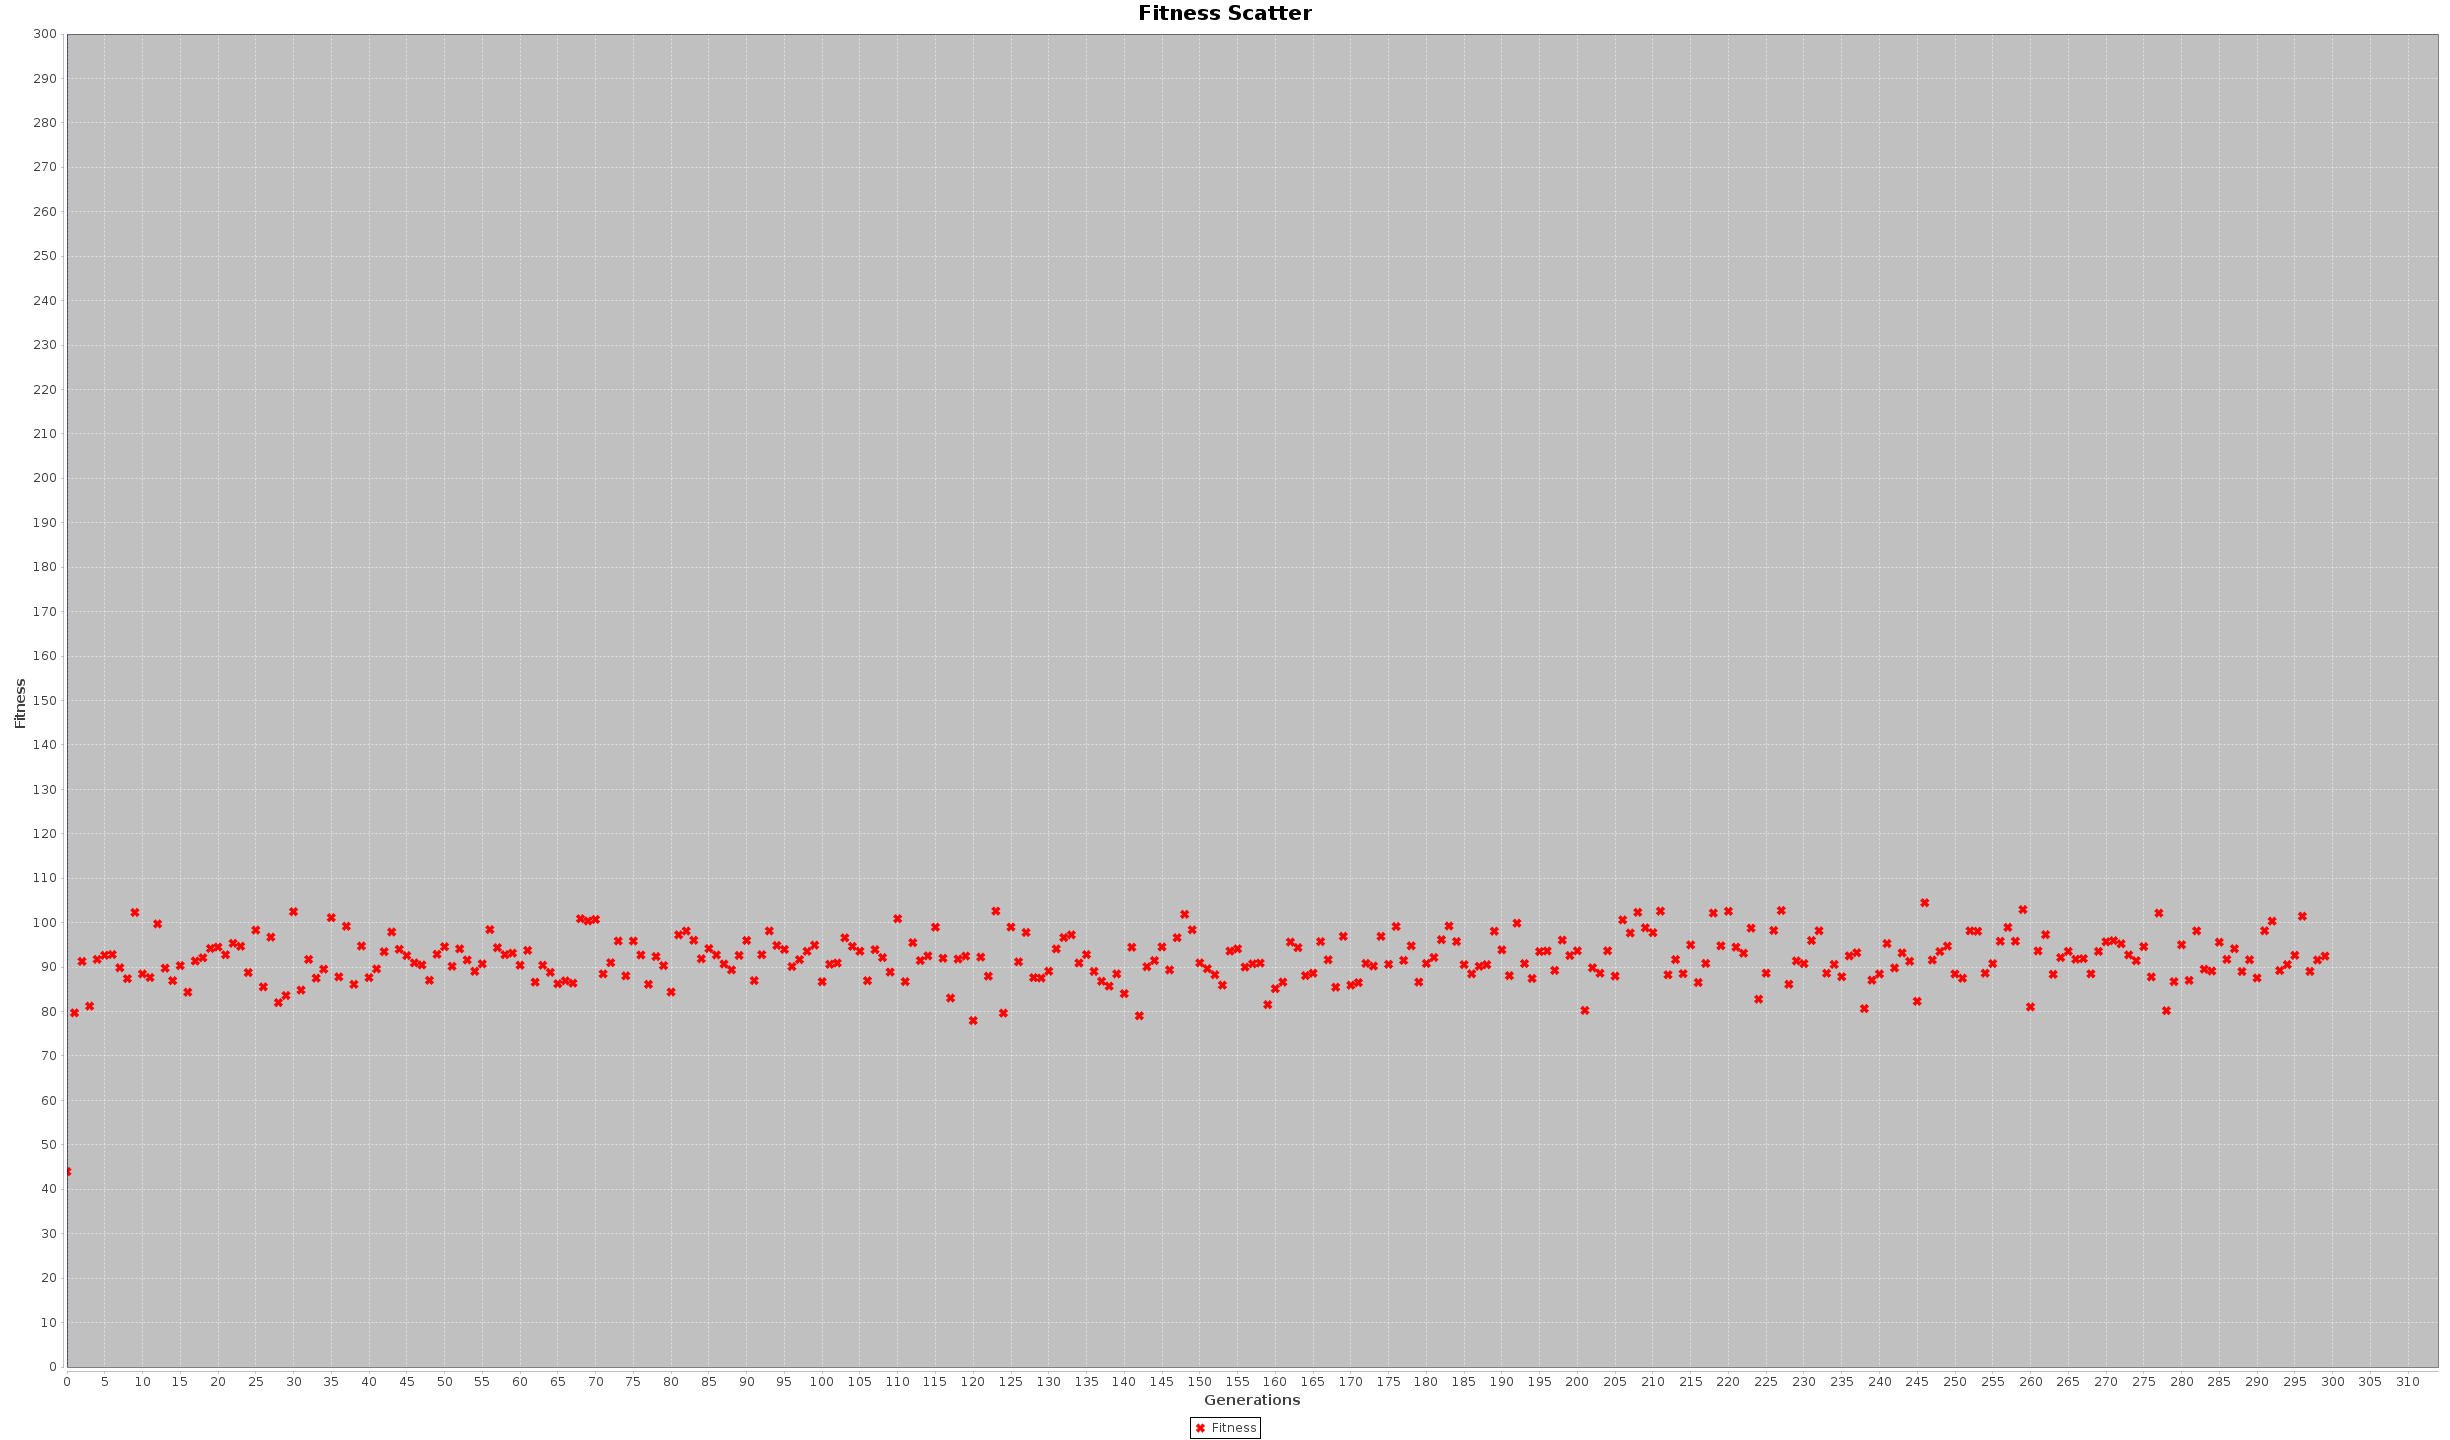
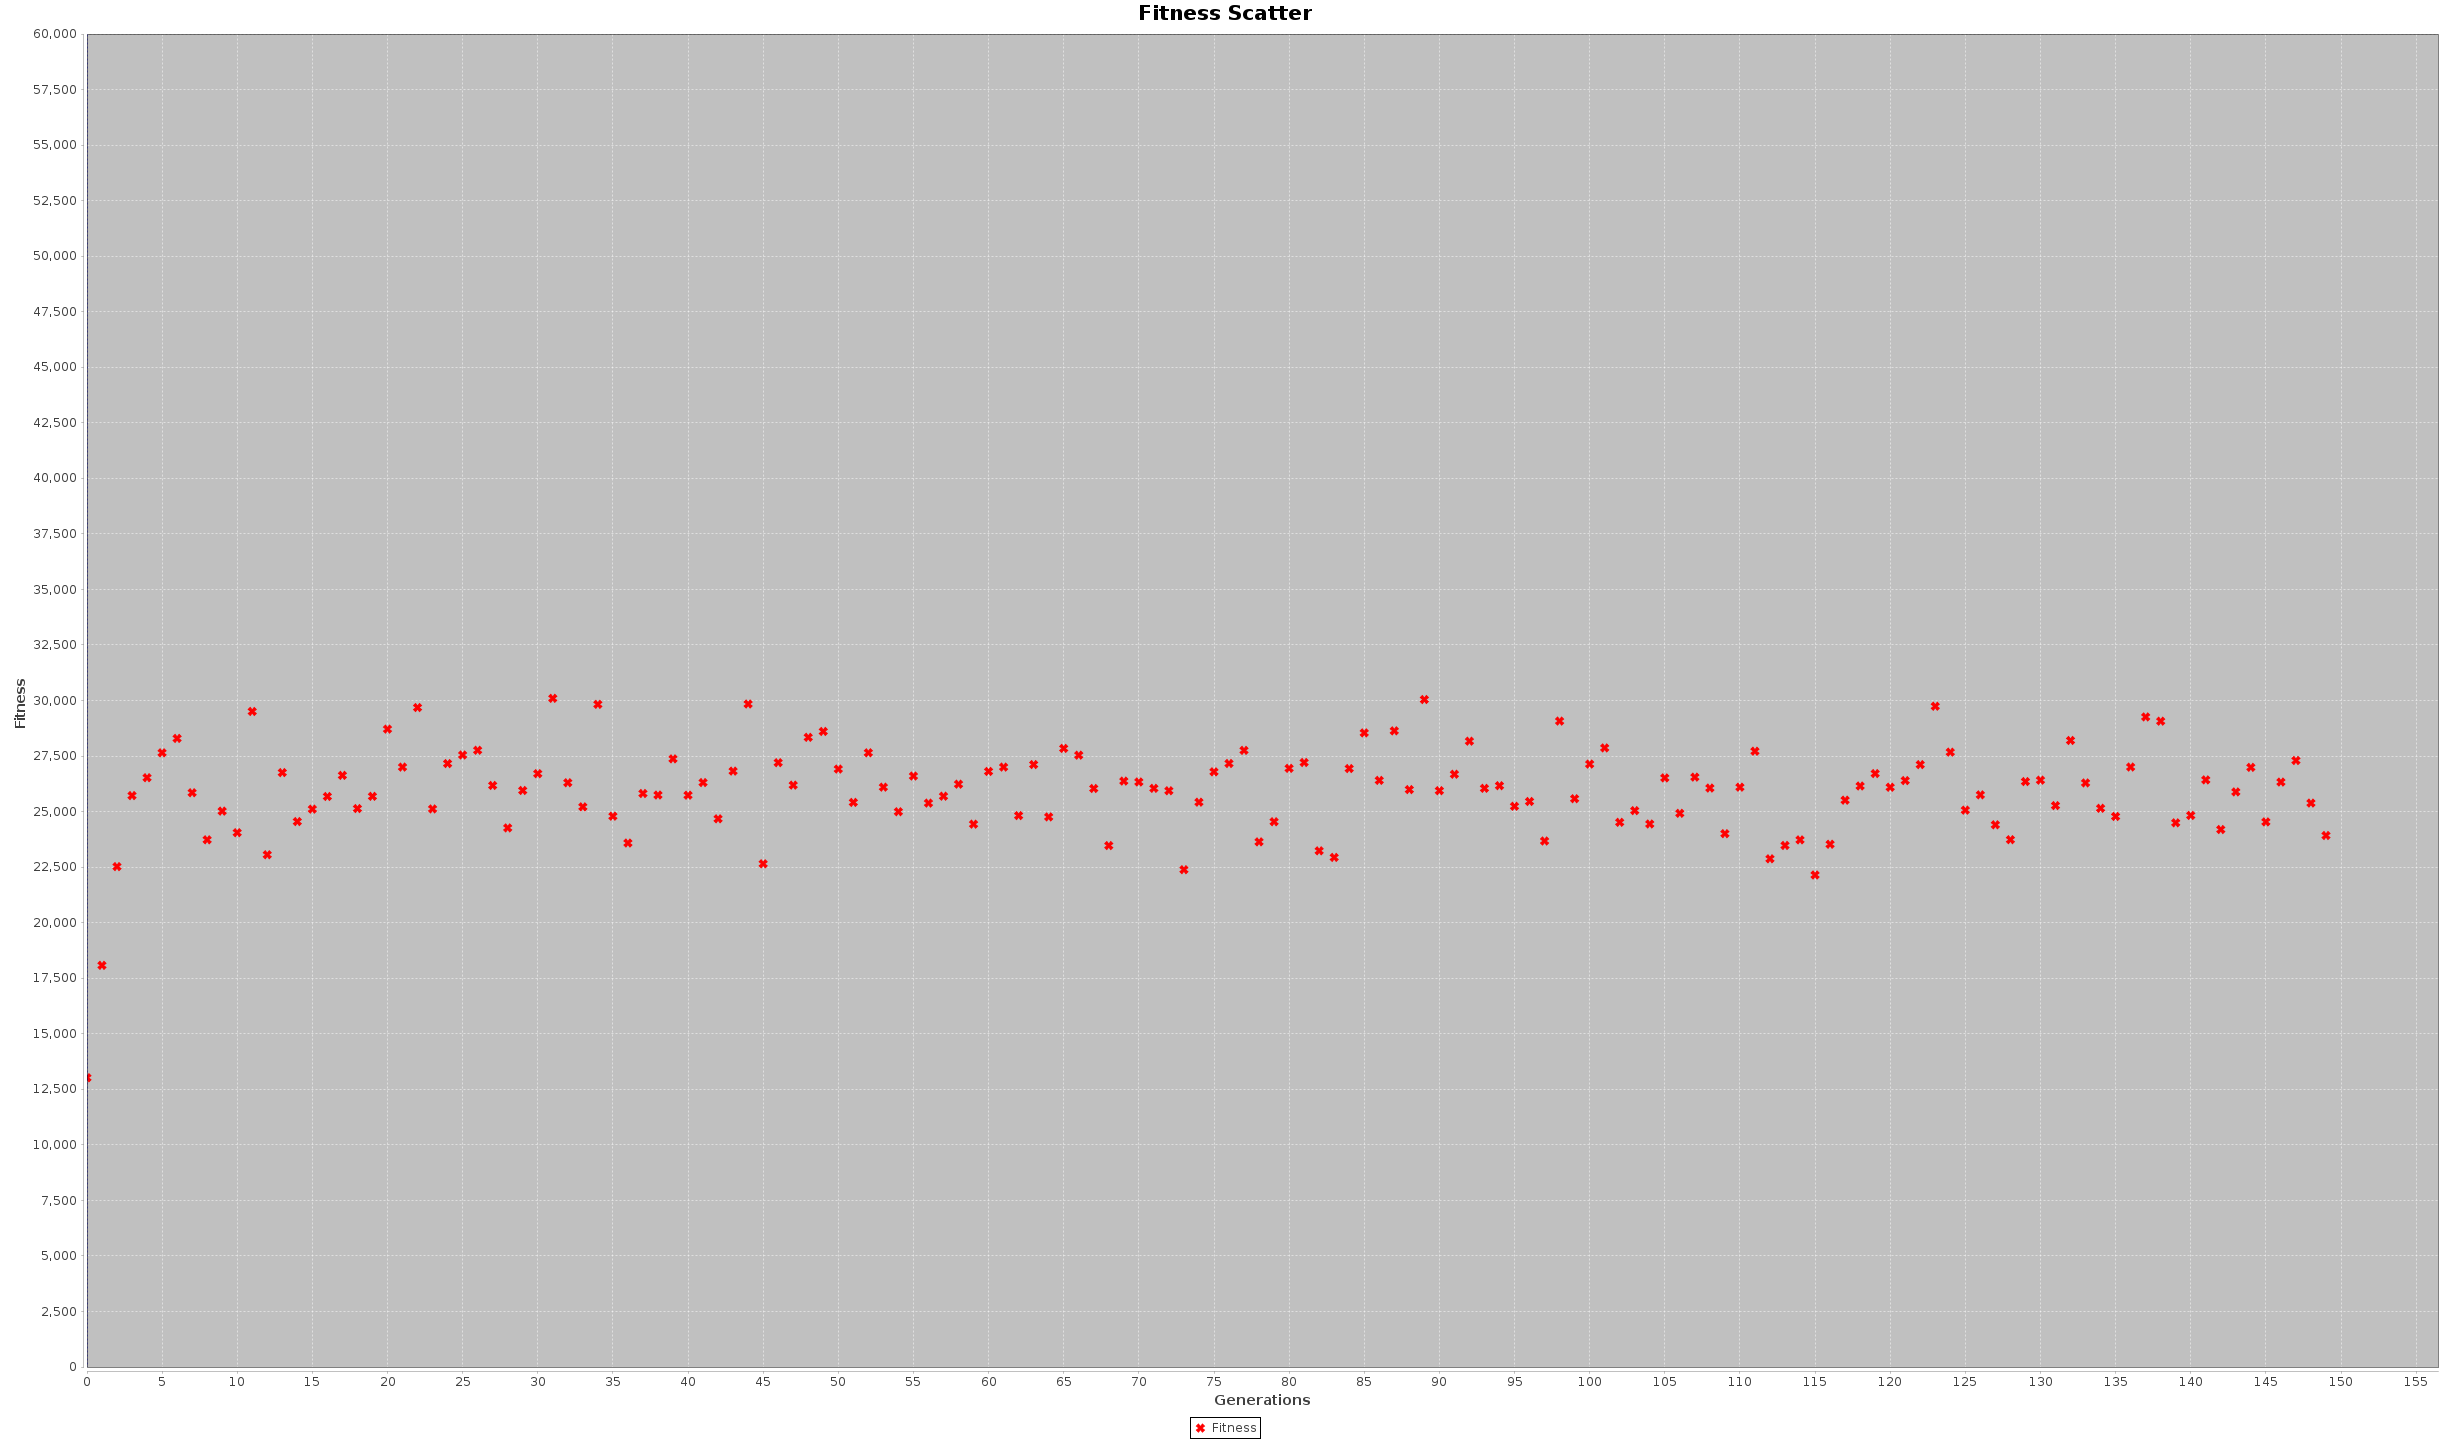
at least one survives most of timne

diff --git a/src/MyCreature.java b/src/MyCreature.java
@@ -23,15 +23,8 @@ public class MyCreature extends Creature {
 
     private double currentFitness = 0.0;
     
-    private double noOfEngyGains  = 0.0;
-    private double noOfsickStates = 0.0;
-    
-    private int currentEnergy = 0;
-    private int prevEnergy;
-    
     public MyCreature(Chromosome chromosome, int numTurns) {
        this.chromosome = chromosome;     
-       this.prevEnergy = Creature.INIT_ENERGY;
     }
     
     /**
@@ -42,14 +35,10 @@ public class MyCreature extends Creature {
      */
     public MyCreature(int numPercepts, int numActions, int numTurns) {
         this.chromosome = new Chromosome(numPercepts, numActions);
-        this.prevEnergy = Creature.INIT_ENERGY;
     }
 
     @Override
     public float[] AgentFunction(int[] percepts, int numPercepts, int numExpectedActions) { 
-        
-        evaluateSickStates();
-        evaluateEnergyGains();
 
         // default actions would be determined by genotypes of individuals.
         float actions[] = new float[numExpectedActions];
@@ -72,42 +61,25 @@ public class MyCreature extends Creature {
             if(sensingE1 == 1) entity1Nearby  = true;
             if(sensingE2 == 1) entity2Nearby = true;
             if(sensingE3 == 1 || sensingE3 == 2) entity3Nearby = true;
+
+            actions[i] += chromosome.getZone1ActSensVal(Chromosome.MOVE);            
             
             // determine fffs.
             if(entity1Nearby) {
-                int fffStatusM = chromosome.getFFFValZone1(ENTITY0);
+                int fffStatusM = chromosome.getFFFValZone(ENTITY0);
                 actions = fffValToActions(actions, fffStatusM, i, sensingE1);
             }
             if(entity2Nearby) {
-                int fffStatusM = chromosome.getFFFValZone1(ENTITY1);
+                int fffStatusM = chromosome.getFFFValZone(ENTITY1);
                 actions = fffValToActions(actions, fffStatusM, i, sensingE2);           
             }
             if(entity3Nearby) {
-                int fffStatusM = chromosome.getFFFValZone1(ENTITY2);
+                int fffStatusM = chromosome.getFFFValZone(ENTITY2);
                 actions = fffValToActions(actions, fffStatusM, i, sensingE3);              
             } 
-            
-            actions[i] += chromosome.getZone1ActSensVal(Chromosome.MOVE);                
         }
         
         return actions;
-    }
-    
-    private void evaluateEnergyGains() {
-        
-        currentEnergy = this.getEnergy();
-        
-        if(currentEnergy > prevEnergy) {
-            noOfEngyGains++;
-        }
-        
-        prevEnergy = currentEnergy;
-    }
-    
-    private void evaluateSickStates() {
-        if(this.isSick()) {
-            noOfsickStates++;
-        }
     }
     
     /**
@@ -122,17 +94,17 @@ public class MyCreature extends Creature {
         
         switch (fffValStatus) {
             case THREAT_THRES:
-                actions[perceptLoc] -= chromosome.getZone1ActSensVal(Chromosome.AWAY);               
+                actions[perceptLoc] -= chromosome.getZone1ActSensVal(Chromosome.AWAY);
                 break;
-
+                
             case NEUTRAL_THRES:
-                actions[perceptLoc] /= chromosome.getZone1ActSensVal(Chromosome.FOLLOW);                
-                actions[Chromosome.RND_ACT] += chromosome.getZone1ActSensVal(Chromosome.RND);
-                break;
-
+                actions[perceptLoc] += chromosome.getZone1ActSensVal(Chromosome.TOWARDS);
+                actions[Chromosome.RND_ACT] += chromosome.getZone1ActSensVal(Chromosome.RND);                  
+                break;        
+                
             case FOOD_THRES:
-                actions[perceptLoc] -= chromosome.getZone1ActSensVal(Chromosome.LATER);
-                actions[perceptLoc] += chromosome.getZone1ActSensVal(Chromosome.WAIT);
+                actions[perceptLoc] += chromosome.getZone1ActSensVal(Chromosome.TOWARDS);
+                //actions[perceptLoc] -= chromosome.getZone1ActSensVal(Chromosome.WAIT);
                 
                 if(perceptVal == 2) {
                     actions[Chromosome.EAT_ACT] += chromosome.getZone1ActSensVal(Chromosome.EAT);
@@ -143,10 +115,6 @@ public class MyCreature extends Creature {
         return actions;
     }
    
-    public double getEngyGainsCt() {
-        return noOfEngyGains;
-    }
-    
     public Chromosome getChromosome() {
         return this.chromosome;
     }

diff --git a/src/MyWorld.java b/src/MyWorld.java
@@ -64,24 +64,21 @@ public class MyWorld extends World {
     /**
      * The number of generations the genetic algorithm will iterate through.
      */
-    private final int numGenerations = 300;
+    private final int numGenerations = 150;
     
     private double[] averageFitnessPerGen = new double[numGenerations];
     
     private double previousFitnessAvg = 0.0;
     
     private int avgFitIdx = 0;
-    private int avgEnergy = 0;   
     
     private MyCreature currentFittestCreature;
     double previousAvgFit = 0.0;
     
     private double determineFitness(MyCreature creature) {
         double fitness = 0;
-        Chromosome chromo = creature.getChromosome();
         
-        avgEnergy += creature.getEnergy();
-        fitness = creature.getEnergy() * ((double)((double)numTurns - (double)creature.timeOfDeath()) /(double) numTurns);
+        fitness = creature.getEnergy() * ((double)numTurns - (double)creature.timeOfDeath());// / (double) numTurns;
         
         return fitness;
     }
@@ -119,12 +116,7 @@ public class MyWorld extends World {
         // display status.
         showStatus(oldPopulation, numCreatures);
 
-        int newGen = 0;/*
-        while(newGen < survivors.size()) {
-            newGeneration[newGen] = survivors.get(newGen);
-            newGen++;
-        }*/
-        
+        int newGen = 0;
         while(newGen < numCreatures) {
            
             // select parents
@@ -179,8 +171,8 @@ public class MyWorld extends World {
     private Chromosome crossOver(Chromosome firstBest, Chromosome scndBest) {
 
         float[] zone1ActSensP1 = firstBest.getZone1ActSens(),
-                zone1ActSensP2 = scndBest.getZone1ActSens();      
-        
+                zone1ActSensP2 = scndBest.getZone1ActSens();             
+                
         int[] fffSensitivityZone1P1 = firstBest.getFFFSensGenesZone1(), 
               fffSensitivityZone1P2 = scndBest.getFFFSensGenesZone1();    
         
@@ -193,7 +185,7 @@ public class MyWorld extends World {
         newGenes.setFFFSensGenesZone1(fffMutation(
                                     orderOneCrossOverFFF(
                                                 fffSensitivityZone1P1,
-                                                fffSensitivityZone1P2), 8700));
+                                                fffSensitivityZone1P2), 5000));
         
         return newGenes;
     }
@@ -248,6 +240,7 @@ public class MyWorld extends World {
         float[] newSubTraits = new float[genes1.length];
         
         int left = rand.nextInt(genes1.length);
+        left = genes1.length / 2;
         
         int i = 0;
         while(i < genes1.length) {
@@ -271,7 +264,7 @@ public class MyWorld extends World {
  
         //if(mutate < subTraits.length) {
             for(int i = 0; i < subTraits.length; i++) {
-                int mutate = rand.nextInt(29000);
+                int mutate = rand.nextInt(50000);
                 
                 if(mutate < subTraits.length) {
                     System.out.println("mutated");
@@ -422,8 +415,8 @@ public class MyWorld extends World {
        
             // set domain and range.
             NumberAxis range = (NumberAxis) xyPlot.getRangeAxis();
-            range.setRange(0, numTurns);
-            range.setTickUnit(new NumberTickUnit(10.0));
+            range.setRange(0, numTurns * 200);
+            range.setTickUnit(new NumberTickUnit(2500.0));
             
             // enable AA.
             jfreechart.getRenderingHints().put(RenderingHints.KEY_ANTIALIASING, 

diff --git a/src/Chromosome.java b/src/Chromosome.java
@@ -40,10 +40,10 @@ public class Chromosome {
     public static final int RND_ACT = 10;
     
     public static final int AWAY    = 0;
-    public static final int MOVE    = 1;
-    public static final int FOLLOW  = 2;
-    public static final int EAT     = 3;
-    public static final int LATER   = 4;
+    public static final int TOWARDS = 1;
+    public static final int MOVE    = 2;
+    public static final int AVOID   = 3;
+    public static final int EAT     = 4;
     public static final int WAIT    = 5;
     public static final int RND     = 6;
     
@@ -51,7 +51,7 @@ public class Chromosome {
     public static final int NUM_ENTITY_TYPE = 3;
 
     private int[]   fffSensitivityZone;    
-    private float[] zone1ActionSensitivity;
+    private float[] zone1ActionSensitivity;  
     
     public Chromosome() {}
     
@@ -60,12 +60,12 @@ public class Chromosome {
         Random rand = new Random();
 
         // initialize traits.
-        zone1ActionSensitivity = new float[NUM_ACTIONS];
+        zone1ActionSensitivity = new float[NUM_ACTIONS];      
         fffSensitivityZone     = new int[NUM_ENTITY_TYPE]; 
         
         // initialize action sensitivity genes.
         for(int idx = 0; idx < NUM_ACTIONS; idx++) {
-           zone1ActionSensitivity[idx]   = rand.nextFloat();
+            zone1ActionSensitivity[idx] = rand.nextFloat();
         }
         
         // initialize fff sensitivity genes.
@@ -103,13 +103,14 @@ public class Chromosome {
         this.fffSensitivityZone = fffSensitivity;
     }
     
-    public int getFFFValZone1(int idx) {
+    public int getFFFValZone(int idx) {
         return fffSensitivityZone[idx];
     }
     
     @Override
     public String toString() {
         return "Chromosome{" + "fffSensitivityZone1=" + Arrays.toString(fffSensitivityZone) +
-                               "\n zone1ActionSensitivity=" + Arrays.toString(zone1ActionSensitivity) + '}';
+                               "\n zone1ActionSensitivity=" + Arrays.toString(zone1ActionSensitivity) + 
+                               "\n                            Away | Towards | Eat | Random" + '}';
     }
 }
